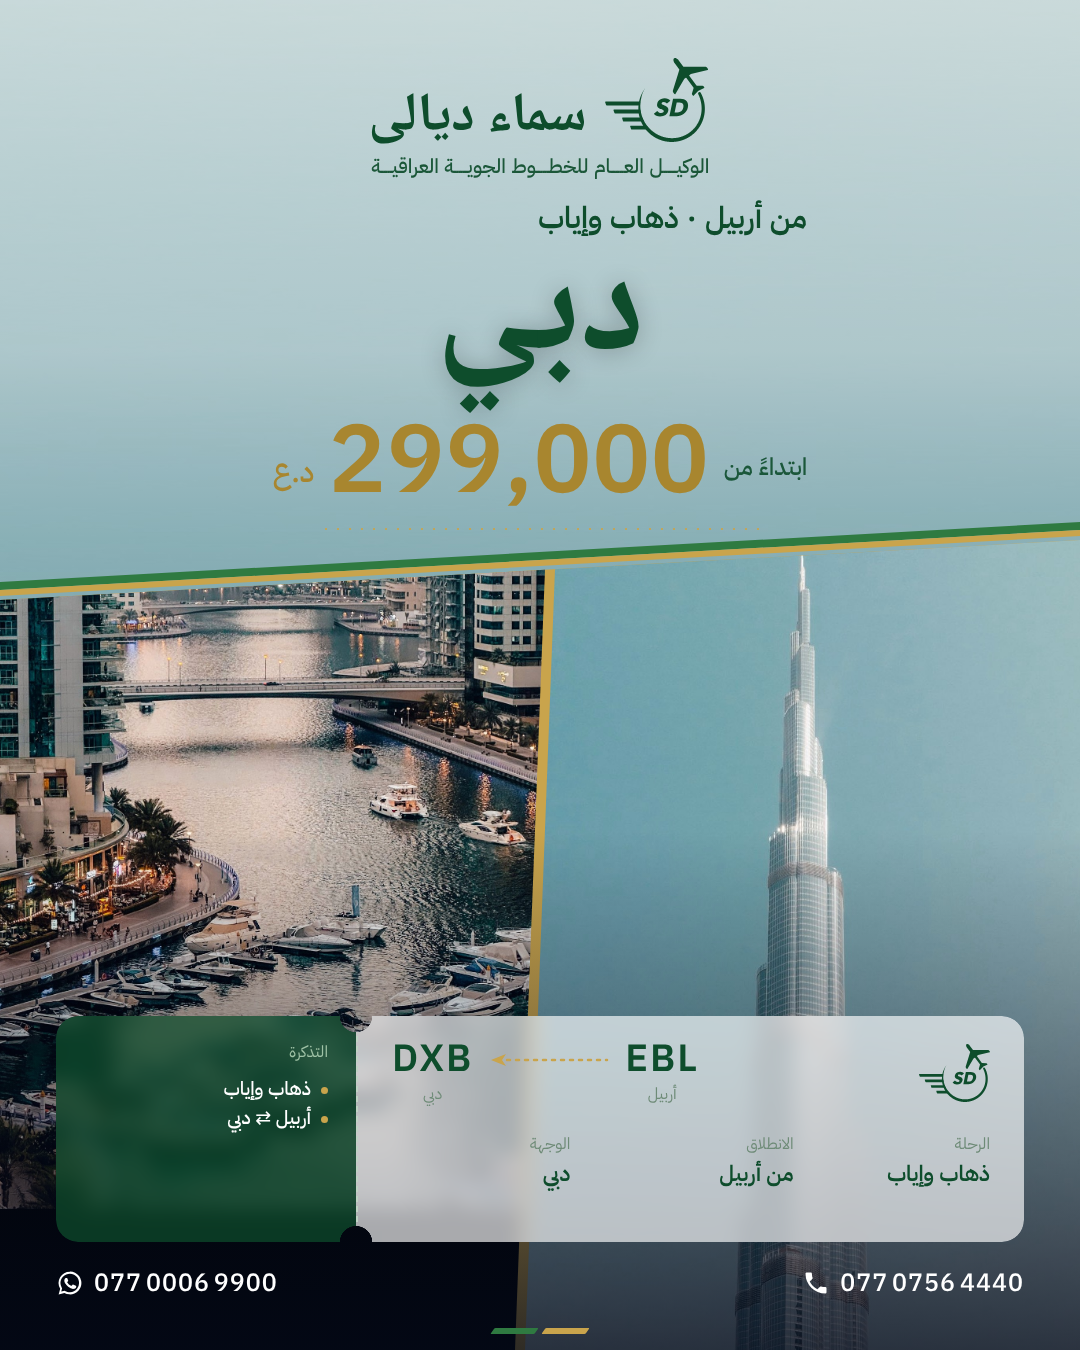
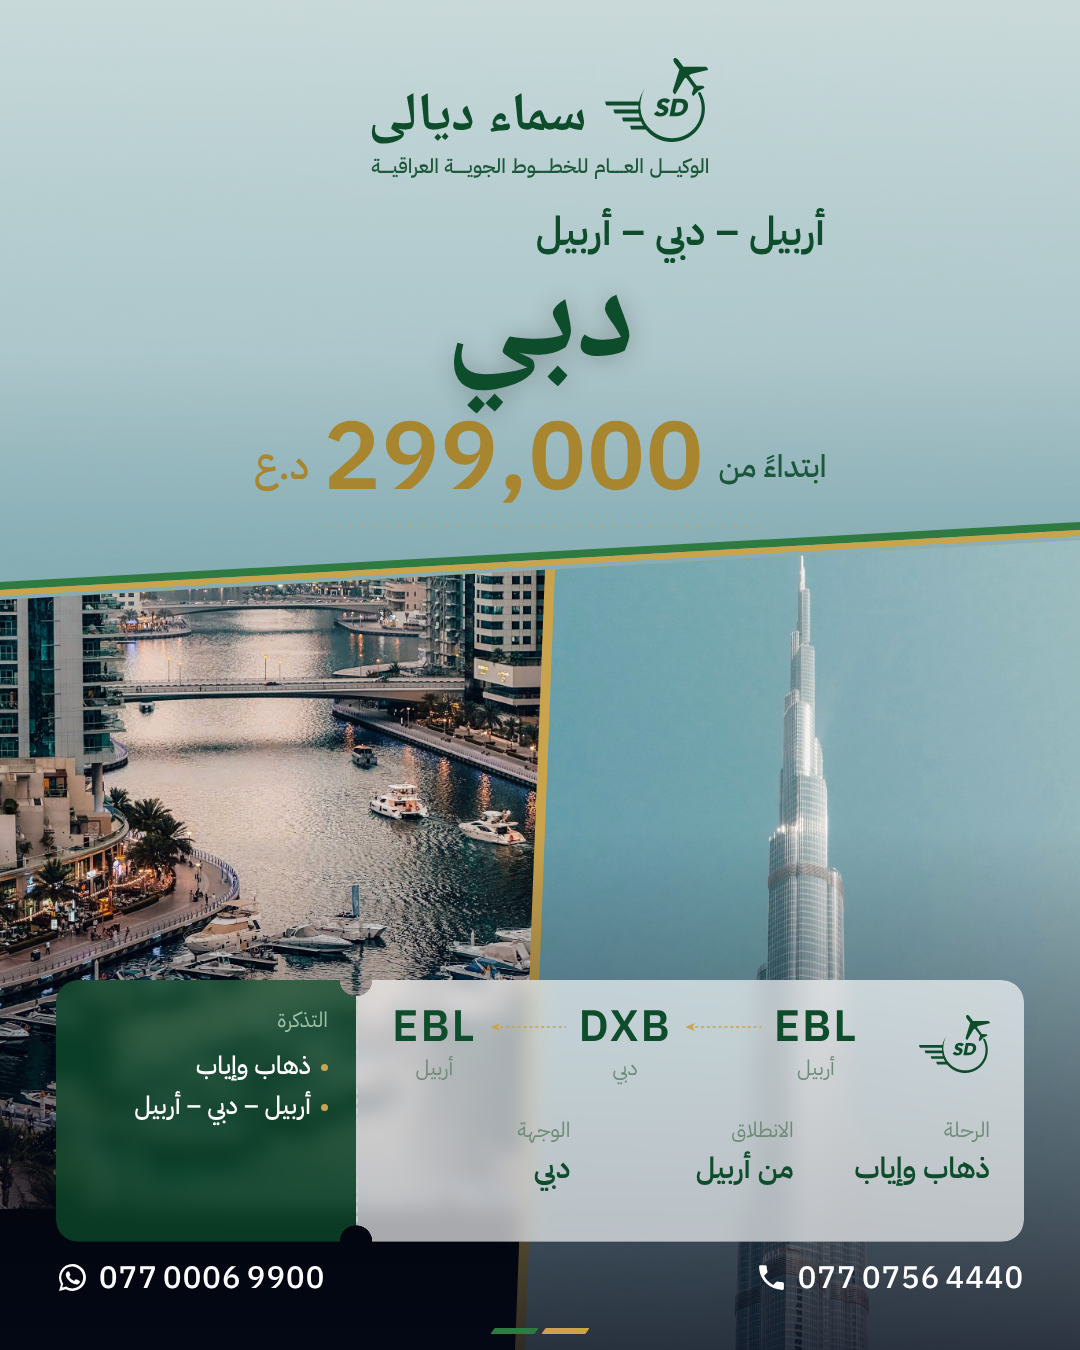
Dubai ad: larger text, explicit Erbil-Dubai-Erbil route
Claude-Session: https://claude.ai/code/session_01EprWPUJDuKvYHn821imCPv

diff --git a/09-التصاميم/دبي من أربيل - نظيف مع بطاقة صعود/إعلان.html b/09-التصاميم/دبي من أربيل - نظيف مع بطاقة صعود/إعلان.html
@@ -13,7 +13,7 @@
   @font-face{font-family:Plex;font-weight:600;src:url("../../07-أدوات/خطوط/ibm-plex-sans-arabic-latin-600-normal.woff2");unicode-range:U+0000-00FF,U+2000-206F}
 
   :root{
-    --kick-dx:132.4px;
+    --kick-dx:140.3px;
     --green:#0E4D2C; --mid:#2F7A41; --gold:#C9A44C; --light:#E9F2EA; --white:#FFFFFF;
     --ink:#0E4D2C;          /* single logo/text colour, chosen per background */
     --accent:#A8862F;   /* price colour */
@@ -92,9 +92,25 @@
   .wa .ph{word-spacing:-3px}
   .wa svg{width:28px;height:28px;flex:none}
   .wa span{font-family:Plex;font-weight:500;font-size:25px;letter-spacing:1px}
-  .dest{font-size:150px !important;line-height:1.05 !important;margin-top:2px !important}
-  .kicker{margin-top:22px !important;color:#0E4D2C !important;font-weight:600 !important}
-  .price{margin-top:16px !important}
+  .dest{font-size:136px !important;line-height:1.05 !important;margin-top:0 !important}
+  .kicker{margin-top:30px !important;color:#0E4D2C !important;font-weight:600 !important}
+  .price{margin-top:10px !important}
+  /* bigger text throughout (header lockup and 20px agent line stay as measured) */
+  .kicker{font-size:40px !important}
+  .price .from{font-size:31px !important;padding-top:18px !important}
+  .price .cur{font-size:40px !important}
+  .pass{height:262px !important}
+  .route{gap:12px !important}
+  .route .code{font-size:44px !important}
+  .route .city{font-size:21px !important}
+  .route svg{width:78px !important;margin-top:16px !important}
+  .fields{margin-top:30px !important}
+  .f .k{font-size:21px !important}
+  .f .v{font-size:29px !important}
+  .stubx .k{font-size:21px !important}
+  .stubx ul{font-size:25px !important;line-height:1.6 !important}
+  .wa span{font-size:31px !important}
+  .wa svg{width:33px !important;height:33px !important}
 </style>
 </head>
 <body>
@@ -123,7 +139,7 @@
       </div>
       <div class="tag" id="tag">الوكيــــــل العــــــام للخطــــــوط الجويــــــة العراقيـــــة</div>
     </div>
-    <div class="kicker">من أربيل · ذهاب وإياب</div>
+    <div class="kicker">أربيل – دبي – أربيل</div>
     <div class="dest">دبي</div>
     <div class="price">
       <span class="from">ابتداءً من</span>
@@ -145,6 +161,8 @@
       <div class="row1">
         <img class="bplogo" src="../../01-الشعار/أحادي بلا الاسم الصغير/الرمز - أخضر.svg" alt="">
         <div class="route">
+          <div><div class="code">EBL</div><div class="city">أربيل</div></div>
+          <svg viewBox="0 0 120 14"><line x1="18" y1="7" x2="118" y2="7" stroke="#C9A44C" stroke-width="2.5" stroke-dasharray="3 6" stroke-linecap="round"/><path d="M2 7 L17 1 L13 7 L17 13 Z" fill="#C9A44C"/></svg>
           <div><div class="code">DXB</div><div class="city">دبي</div></div>
           <svg viewBox="0 0 120 14"><line x1="18" y1="7" x2="118" y2="7" stroke="#C9A44C" stroke-width="2.5" stroke-dasharray="3 6" stroke-linecap="round"/><path d="M2 7 L17 1 L13 7 L17 13 Z" fill="#C9A44C"/></svg>
           <div><div class="code">EBL</div><div class="city">أربيل</div></div>
@@ -158,7 +176,7 @@
     </div>
     <div class="stubx">
       <div class="k">التذكرة</div>
-      <ul><li>ذهاب وإياب</li><li>أربيل ⇄ دبي</li></ul>
+      <ul><li>ذهاب وإياب</li><li>أربيل – دبي – أربيل</li></ul>
     </div>
   </div>
   <div class="stripes"><i></i><i></i></div>

diff --git a/CLAUDE.md b/CLAUDE.md
@@ -81,7 +81,7 @@
 12- ضبط الترويسة بالقياس الفعلي للحبر (`07-أدوات/ad_header_measure/`): "سماء ديالى" منزلة 22 بكسل (مركزها قرب مركز الدائرة). سطر الوكيل يبقى بحجم 20px ولا يُكبَّر، ويُمدّ بالكشيدة موزعة على الكلمات الخمس (`kashida2.js`) مع شعرة word-spacing، حتى يطابق عرض الرمز والاسم بفارق ربع بكسل. القيم في متغيرات CSS أعلى قالب الإعلان.
 13- المقاس 1080×1350، ثم الستوري 1080×1920 والكاروسيل عند الحاجة. التفاصيل (الفندق، التواريخ، ما يشمله السعر) تُكتب في النص المرافق.
 
-- عرض تذاكر "دبي من أربيل" (23 تشرين الثاني 2026، بسعر عرض منافس أعطاه إحسان 299,000 د.ع ذهاب وإياب): `09-التصاميم/دبي من أربيل - نظيف مع بطاقة صعود/`. كولاج من صورتين فقط (مرسى دبي يساراً، وبرج خليفة يميناً) بفاصل ذهبي مائل، والسماء تدرّج حقيقي من سماء صورة البرج بلا البرج، فالترويسة خضراء والسعر بالذهبي الغامق، والسطر الصغير فوق الوجهة بالأخضر الداكن (الذهبي لم يكن واضحاً على السماء الفاتحة). المسار EBL ← DXB، والكعب "التذكرة: ذهاب وإياب". فيه رقمان: 077 0006 9900 بواتساب يساراً، و077 0756 4440 بأيقونة هاتف يميناً (بلا +964).
+- عرض تذاكر "دبي من أربيل" (23 تشرين الثاني 2026، بسعر عرض منافس أعطاه إحسان 299,000 د.ع ذهاب وإياب): `09-التصاميم/دبي من أربيل - نظيف مع بطاقة صعود/`. كولاج من صورتين فقط (مرسى دبي يساراً، وبرج خليفة يميناً) بفاصل ذهبي مائل، والسماء تدرّج حقيقي من سماء صورة البرج بلا البرج، فالترويسة خضراء والسعر بالذهبي الغامق، والسطر الصغير فوق الوجهة بالأخضر الداكن (الذهبي لم يكن واضحاً على السماء الفاتحة). السطر فوق الوجهة "أربيل – دبي – أربيل"، والمسار في البطاقة EBL ← DXB ← EBL، والكعب "ذهاب وإياب" و"أربيل – دبي – أربيل"، والخطوط مكبّرة في كل الإعلان عدا الترويسة المقاسة. فيه رقمان: 077 0006 9900 بواتساب يساراً، و077 0756 4440 بأيقونة هاتف يميناً (بلا +964).
 
 ## التسليم (من 19 تشرين الثاني 2026)
 - المعتمد للنشر: صور PNG عالية الجودة (2160×2700). بعد كل تصميم أو تعديل تُنسخ تلقائياً إلى `13-جاهز-للنشر/` باسم العرض (مثل "الأردن رأس السنة.png")، وتُرسل الصورة لإحسان.
